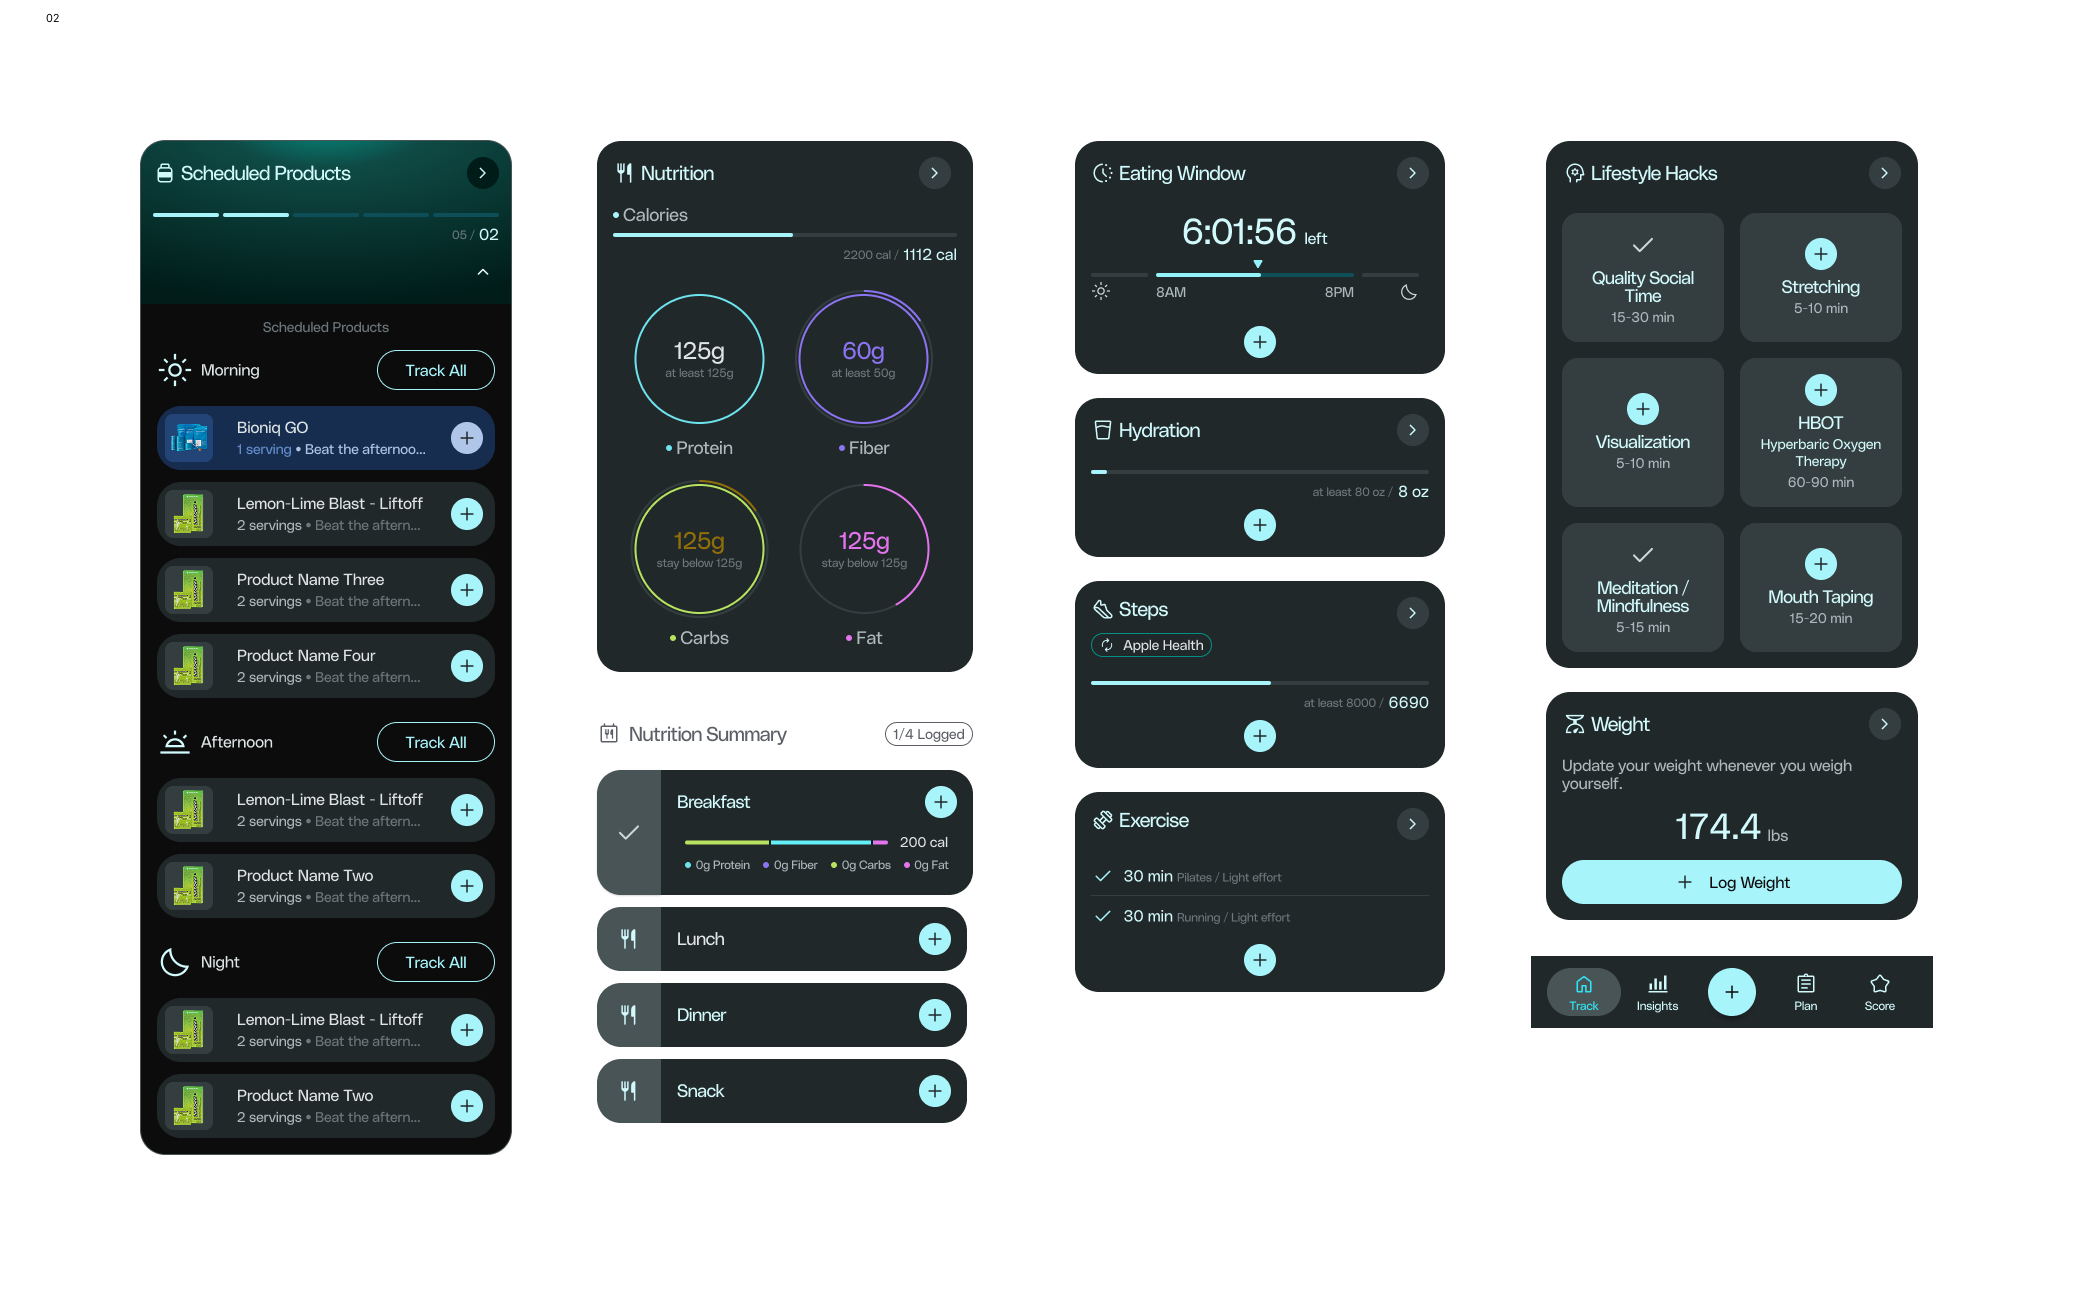
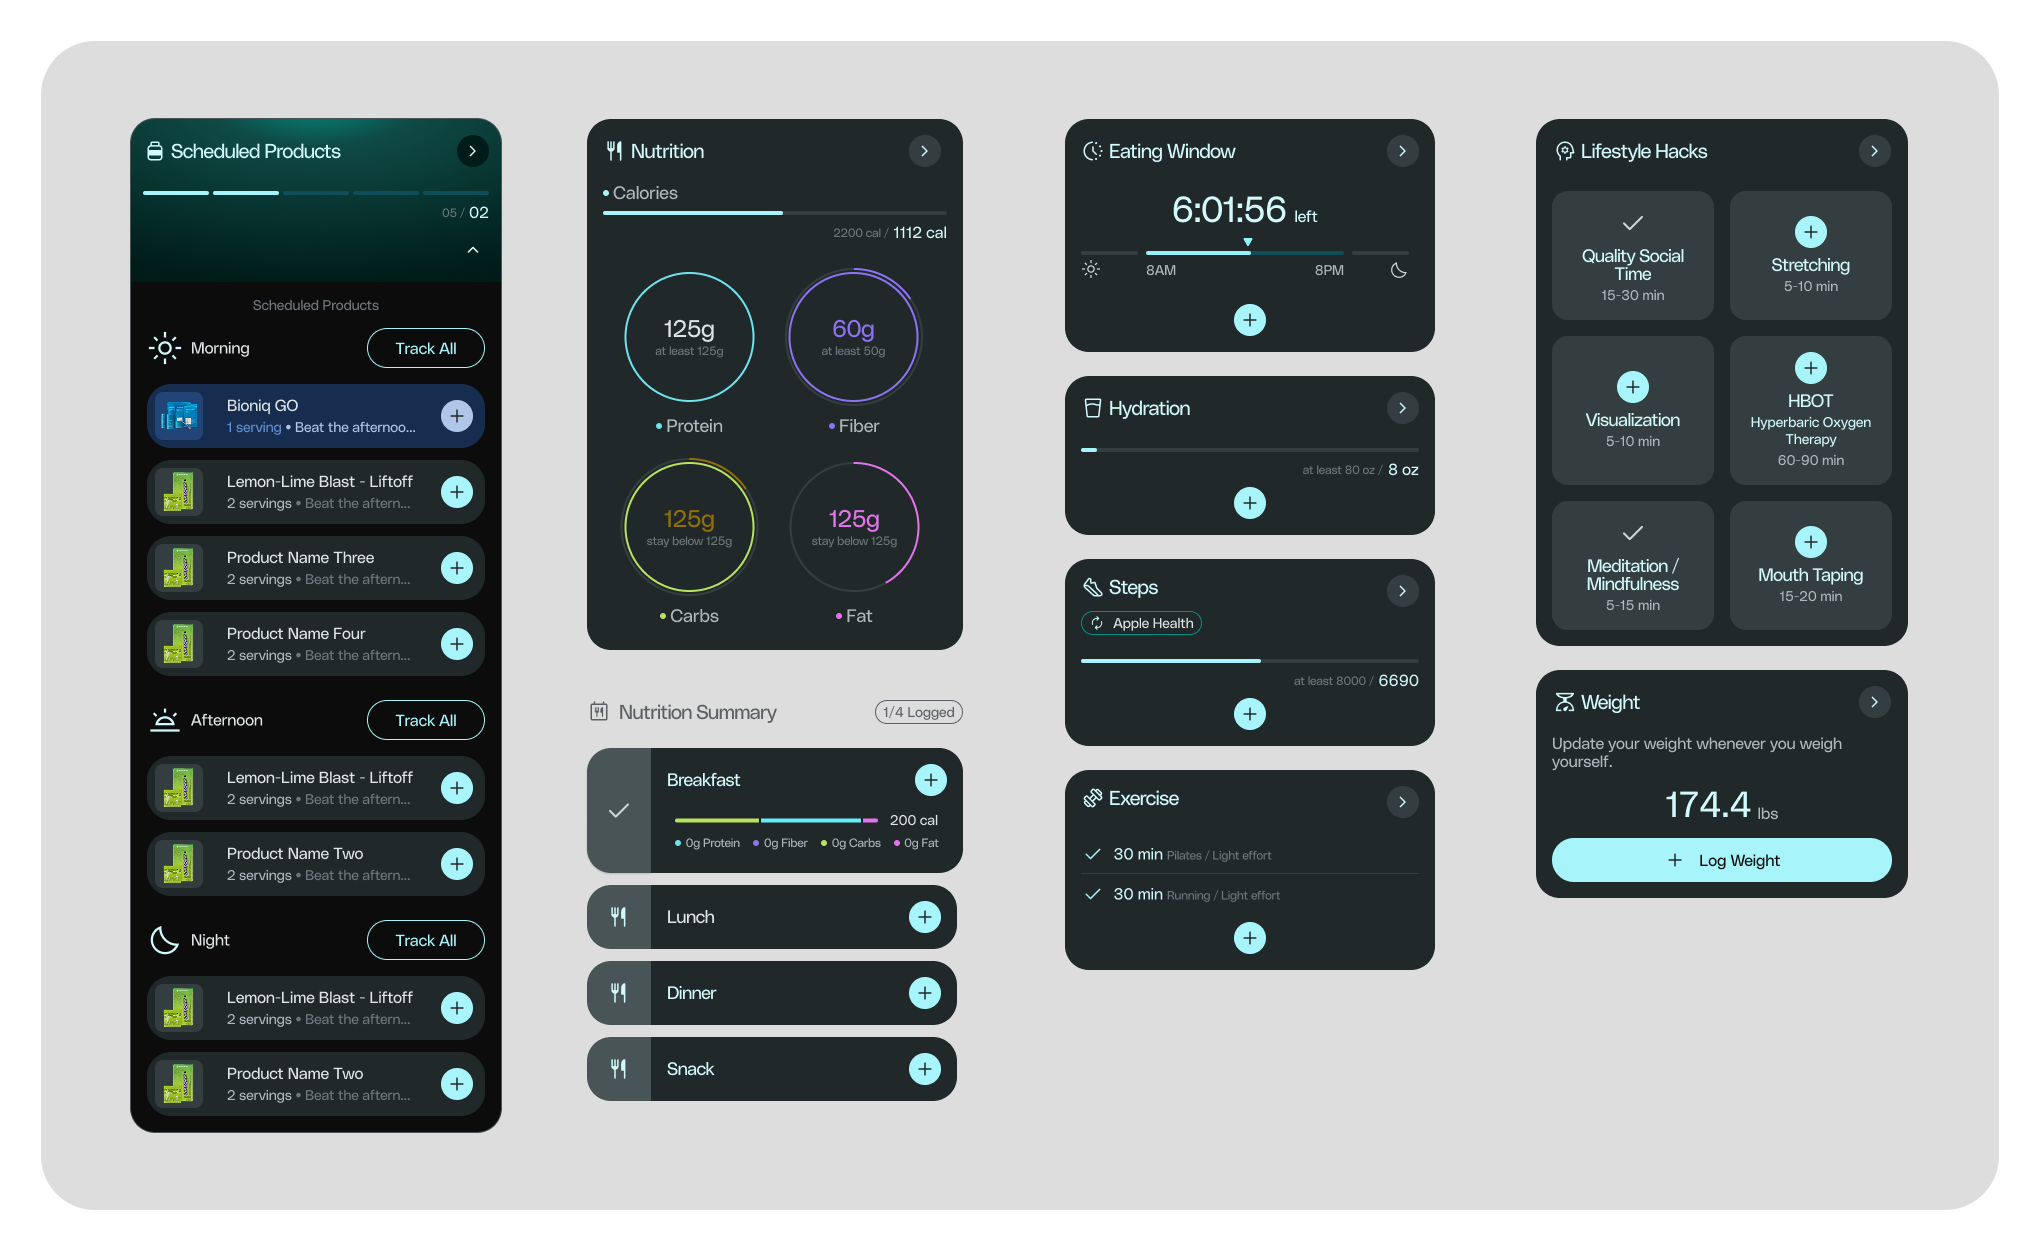
Update Pro2col assessment/dashboard images, fix dark-mode thumb tag
- Swap in the latest assessment (01) and dashboard (02) screenshots
  for the Pro2col case study.
- Keep the work-card thumb-tag pill text a fixed dark color instead
  of following --ink, since its background stays white-ish in both
  themes; it was unreadable (light text) in dark mode.

diff --git a/assets/style.css b/assets/style.css
@@ -381,7 +381,7 @@ section{padding:150px 0;}
   position:absolute;left:20px;bottom:20px;
   background:rgba(255,255,255,.85);backdrop-filter:blur(6px);
   padding:8px 14px;border-radius:var(--radius-sm);
-  font-size:13px;font-weight:600;color:var(--ink);
+  font-size:13px;font-weight:600;color:#0f0f0f;
 }
 .work-thumb.has-image img{
   position:absolute;inset:0;width:100%;height:100%;object-fit:cover;